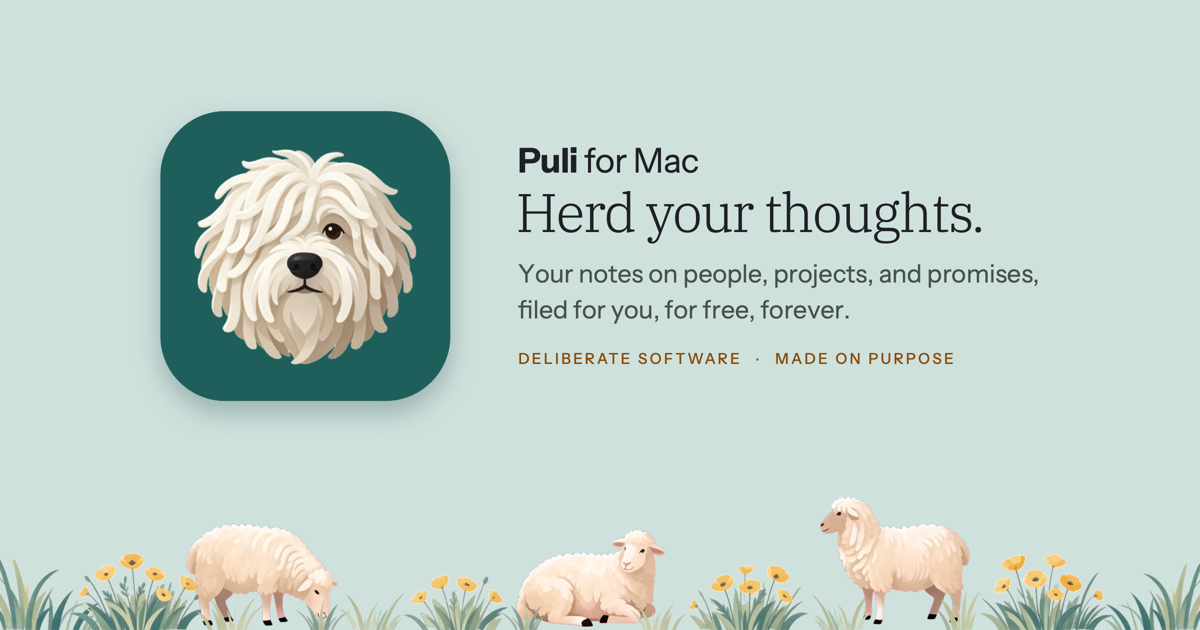
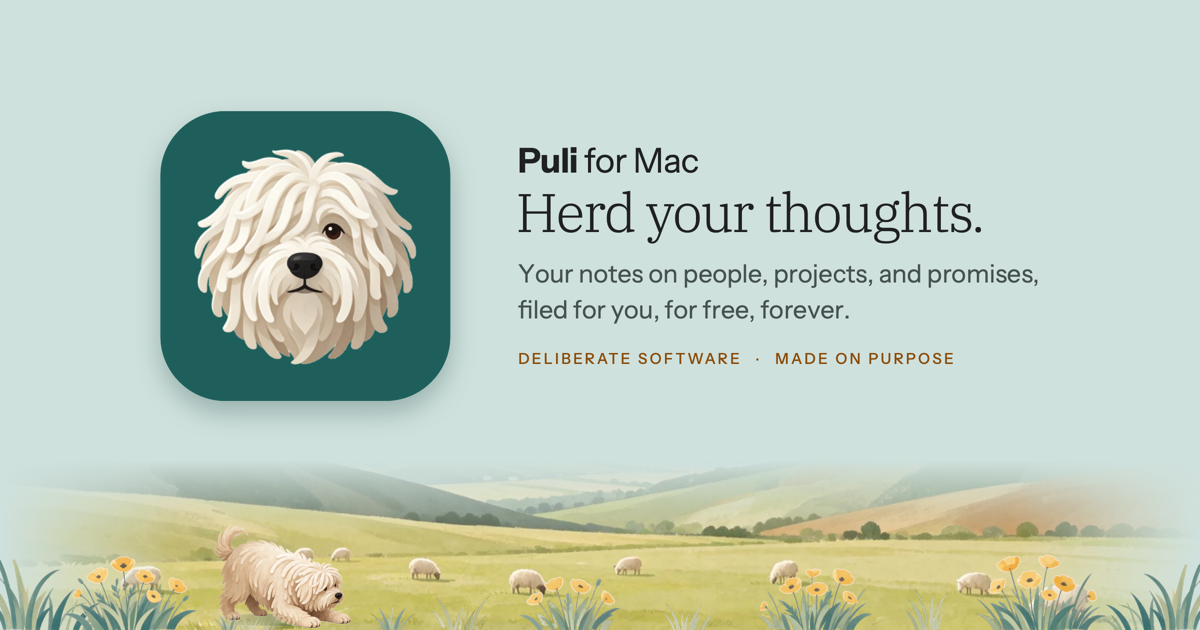
The link preview: the flock far off in the pasture, Puli herding in front; BRAND.md's art: the Puli is the star

Changed region(s): [[0.0308, 0.754, 0.9867, 1.0]]

diff --git a/tools/og-image.swift b/tools/og-image.swift
@@ -4,7 +4,7 @@
 //
 // Run from the site's folder. It uses the site's own fonts (assets/fonts) and art (tools/art: the originals the site's AVIFs are drawn from): the app icon,
 // "Puli for Mac", "Herd your thoughts.", a two-line lede and a byline, centered as a group with equal margins, over the
-// painted meadow and three sheep along the bottom. Change the words in L1–L5 below; the layout follows their widths.
+// painted meadow along the bottom, with Puli herding and the flock far off in the pasture (Nov 22). Change the words in L1–L5 below; the layout follows their widths.
 import AppKit
 import CoreText
 // Drawn at 2x for crispness, then scaled down.
@@ -29,22 +29,37 @@ func place(_ p: String, x: CGFloat, bottom: CGFloat, width: CGFloat, flip: Bool 
 }
 hex(0xCFE1DD).setFill(); NSRect(x: 0, y: 0, width: W, height: H).fill()
 
-// the meadow along the bottom: smaller grass and poppies, so three sheep can stand among them at the site's scale
+// the flock, far off (Alan, Nov 22): the painted pasture along the bottom, its sky and ends fading into the teal, as at
+// the foot of the home page. Drawn so the pasture's row 277 meets the bottom edge, showing only the distant sheep.
+let pasture = img("pasture/pasture-grazing.png")
+let pScale = CGFloat(W) / pasture.size.width, pH = pasture.size.height * pScale, strip: CGFloat = 170
+pasture.draw(in: rect(0, CGFloat(H) - 277 * pScale, CGFloat(W), pH), from: .zero, operation: .sourceOver, fraction: 1)
+let bg = hex(0xCFE1DD)
+bg.setFill(); rect(0, 0, CGFloat(W), CGFloat(H) - strip).fill()
+NSGradient(starting: bg, ending: bg.withAlphaComponent(0))!.draw(in: rect(0, CGFloat(H) - strip, CGFloat(W), strip * 0.45), angle: -90)
+NSGradient(starting: bg, ending: bg.withAlphaComponent(0))!.draw(in: rect(0, CGFloat(H) - strip, 180, strip), angle: 0)
+NSGradient(starting: bg, ending: bg.withAlphaComponent(0))!.draw(in: rect(CGFloat(W) - 180, CGFloat(H) - strip, 180, strip), angle: 180)
+
+// the meadow in front: grass and poppies, and Puli herding on the left, as in the hero, with short grass at her hind
+// paws and a soft shadow under her
 place("meadow/grass-flat-8.png", x: -16, bottom: 0, width: 118)
-place("meadow/poppies-flat-4.png", x: 70, bottom: 0, width: 138)
-place("flock/flock-grazing-right.png", x: 186, bottom: 4, width: 152)
-place("meadow/grass-flat-1.png", x: 196, bottom: 0, width: 66, flip: true)
-place("meadow/grass-flat-5.png", x: 296, bottom: 0, width: 54)
-place("meadow/grass-flat-2.png", x: 340, bottom: 0, width: 64)
-place("meadow/poppies-flat-3.png", x: 404, bottom: 0, width: 104)
-place("flock/flock-lying.png", x: 516, bottom: 3, width: 150)
-place("meadow/grass-flat-5.png", x: 500, bottom: 0, width: 50, flip: true)
-place("meadow/grass-flat-1.png", x: 630, bottom: 0, width: 56)
-place("meadow/poppies-flat-5.png", x: 690, bottom: 0, width: 118)
-place("flock/flock-standing-left.png", x: 820, bottom: 5, width: 150)
-place("meadow/grass-flat-2.png", x: 812, bottom: 0, width: 62, flip: true)
-place("meadow/grass-flat-10.png", x: 936, bottom: 0, width: 44)
-place("meadow/poppies-flat-6.png", x: 980, bottom: 0, width: 134)
+place("meadow/poppies-flat-4.png", x: 64, bottom: 0, width: 132)
+let pupX: CGFloat = 212, pupW: CGFloat = 140, pk = pupW / 190   // smaller than at first (Alan, Nov 22)
+NSGraphicsContext.saveGraphicsState()
+let shadow = NSBezierPath(ovalIn: rect(pupX, CGFloat(H) - 4 - 12, pupW * 0.87, 12))
+NSGradient(colors: [hex(0x173F3C, 0.30), hex(0x173F3C, 0.12), hex(0x173F3C, 0)], atLocations: [0, 0.6, 1], colorSpace: .sRGB)!.draw(in: shadow, relativeCenterPosition: .zero)
+NSGraphicsContext.restoreGraphicsState()
+place("pack/pack-herding.png", x: pupX, bottom: 0, width: pupW)
+place("meadow/grass-flat-5.png", x: pupX + 2 * pk, bottom: 0, width: 42 * pk)
+place("meadow/grass-flat-1.png", x: pupX + 32 * pk, bottom: 0, width: 38 * pk, flip: true)
+place("meadow/grass-flat-2.png", x: pupX + 62 * pk, bottom: 0, width: 28 * pk)
+place("meadow/grass-flat-5.png", x: 370, bottom: 0, width: 46)
+place("meadow/grass-flat-2.png", x: 430, bottom: 0, width: 60)
+place("meadow/poppies-flat-3.png", x: 520, bottom: 0, width: 100)
+place("meadow/grass-flat-1.png", x: 660, bottom: 0, width: 54)
+place("meadow/poppies-flat-5.png", x: 760, bottom: 0, width: 112)
+place("meadow/grass-flat-10.png", x: 905, bottom: 0, width: 42)
+place("meadow/poppies-flat-6.png", x: 975, bottom: 0, width: 132)
 place("meadow/grass-flat-8.png", x: 1104, bottom: 0, width: 110, flip: true)
 
 // the words, centered on the icon: the name first and largest, as the menu bar sets it, then the headline, then a line

diff --git a/BRAND.md b/BRAND.md
@@ -12,7 +12,7 @@ Your notes about the people you work with, the projects you work on, and the pro
 
 ## The name
 
-Puli is named for a Hungarian herding dog with a corded coat. Say it POO-lee. A herding dog doesn't replace the shepherd: you decide what matters, and Puli makes sure none of it wanders off. Be subtle with the dog: herding, tricks, and lessons, not puns in every line.
+Puli is named for a Hungarian herding dog with a corded coat. Say it POO-lee. A herding dog doesn't replace the shepherd: you decide what matters, and Puli makes sure none of it wanders off. Be subtle with the dog in words: herding, tricks, and lessons, not puns in every line. In pictures, she's the star.
 
 ## The home page
 
@@ -44,7 +44,13 @@ By day the page is pale teal, with light screenshots and a cream menu bar. By ni
 
 ## The art
 
-Painted illustrations, not photos, so the site feels like software: grass, poppies, and sheep from the meadow. The home page has them throughout. Every other page has a strip of meadow along its foot, now and then with a sheep. The Puli herself appears only in the app icon and on the 404, sniffing a tuft of grass. The art is always full color, by day and by night: never dim or filter it.
+Painted illustrations, not photos, so the site feels like software: grass, poppies, and the Puli herself. The Puli is the star. The sheep were becoming the mascot by accident, so they moved to a far-off pasture (Nov 22).
+
+- **The Puli** appears in the app icon and across the site, in poses from Alan's art: herding in the hero, standing, sniffing, lying, running in mid air in Questions, walking, and a downward dog on Thanks. Each pose does something that suits its section; she's never a logo pasted in. More poses come from Alan's art, in the same painted style, so she always looks like one dog.
+- **The sheep** appear only far off: a painted pasture with the flock grazing in the distance, behind the meadow at the foot of the home page. Never a sheep up close, big enough to have a face.
+- **The meadow:** grass and poppies throughout the home page. Every other page has a strip of meadow along its foot; about one page in five has a Puli there, and the 404 has the large sniffer, sniffing a tuft of grass.
+- The art is always full color, by day and by night: never dim or filter it.
+- The originals are in `tools/art/` (`pack/` for the Puli, `pasture/` for the flock, `meadow/` for the grass and poppies); the site's AVIFs are drawn from them with `tools/avif.swift`.
 
 ## Words
 
